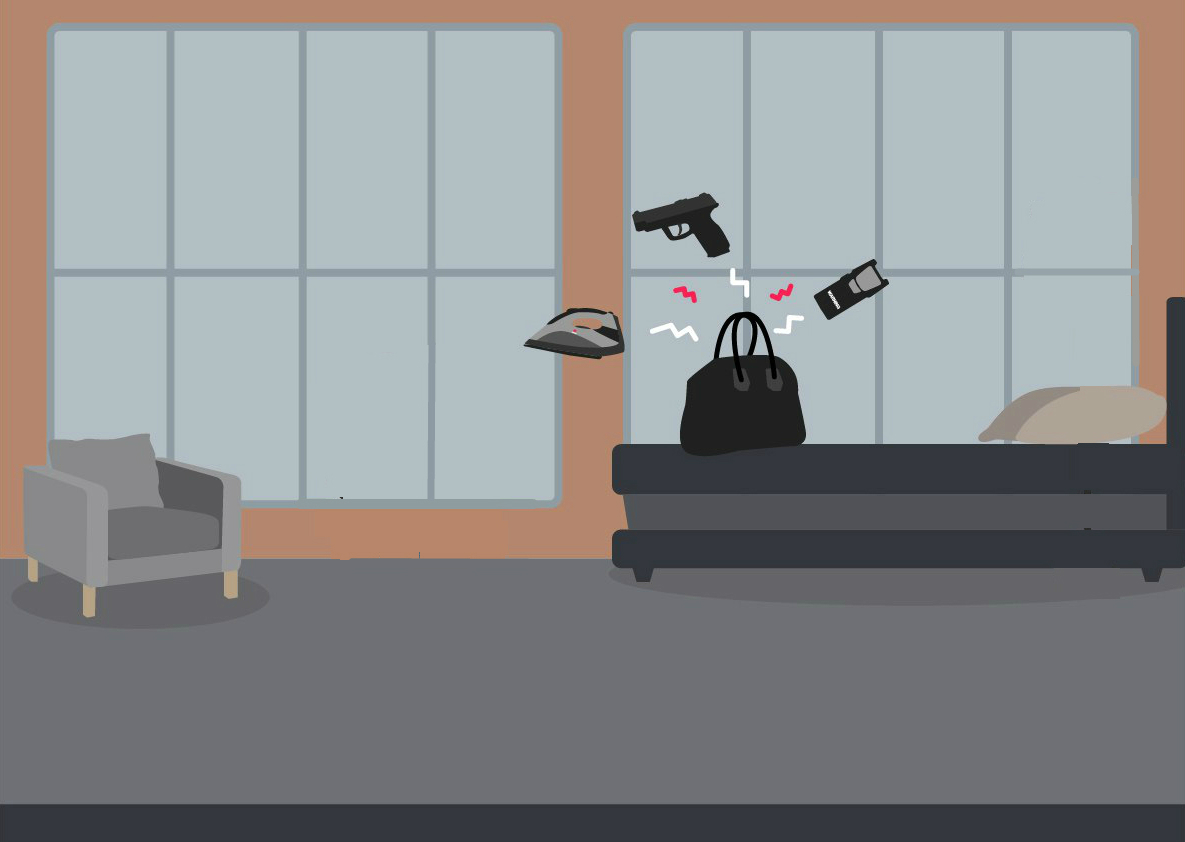
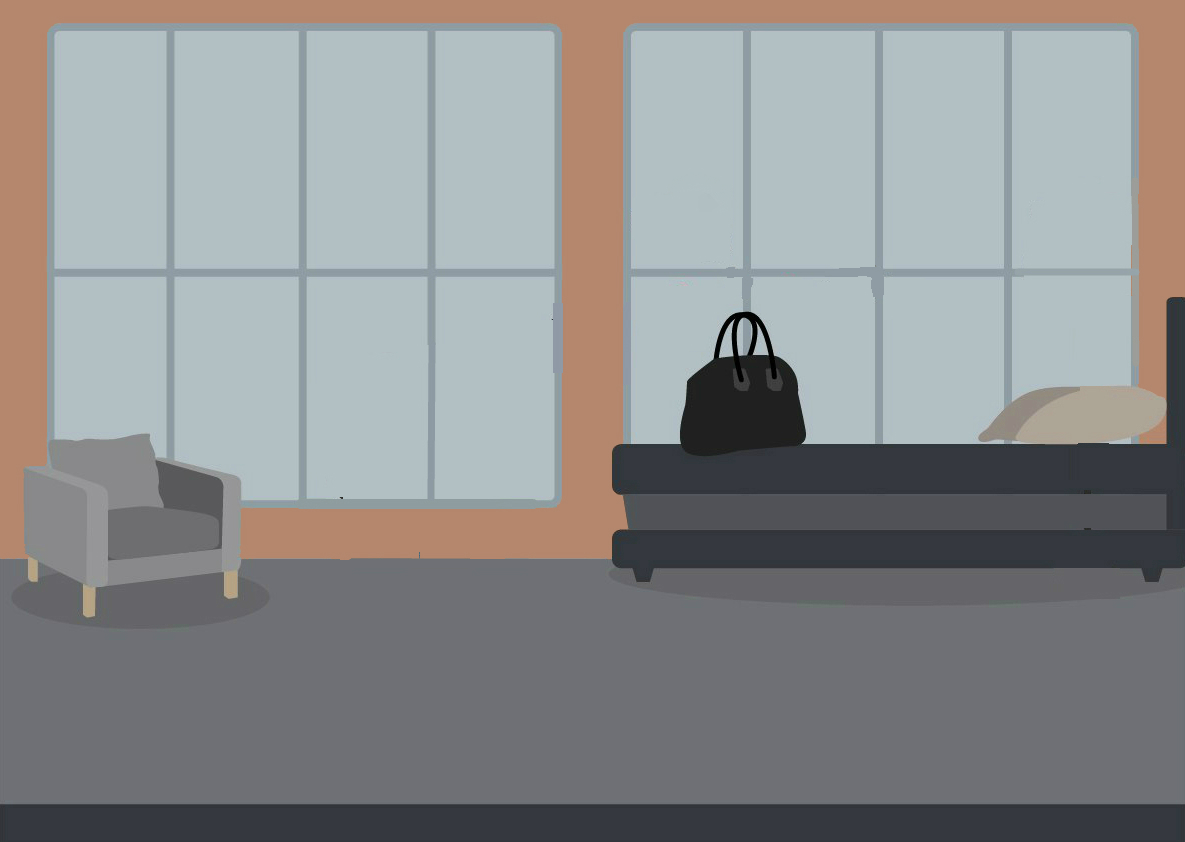
iron, gun, taser, animated

diff --git a/index.html b/index.html
@@ -474,6 +474,19 @@
 
               </div><!--End of lamp-->
 
+              <img id="small-iron" src="img/small-iron.png"
+                    data-490p="right:35%; top:45%; opacity:0"
+                    data-520p="right:50%; top:25%; opacity:1;"
+              >
+              <img id="small-gun" src="img/small-gun.png"
+                    data-490p="right:35%; top:45%; opacity:0"
+                    data-520p="right:35%; top:5%; opacity:1;"
+              >
+              <img id="small-taser" src="img/small-taser.png"
+                     data-490p="right:35%; top:45%; opacity:0"
+                    data-520p="right:25%; top:20%; opacity:1;"
+              >
+
             </div><!--End of loft-bg-->
 
             </div><!--End of slide 6-->
@@ -503,6 +516,8 @@
     data-800p="left:255%;margin-left:10%;"
     data-900p="left:300%;margin-left:10%;"
 >
+
+<div class="dialogue-box-shaw1"></div>
 
   <div class="shaw-hair">
     <div class="shaw-back-hair"></div>
@@ -629,8 +644,8 @@
         <div class="line3"></div>
 
   <div class="screen"
-   data-850p=""
-        data-890p=""
+   data-880p=" background-image: url(http://prashantsani.com/Misc/codepen/noise.jpg); animation: noiseAnim 0.5s infinite linear alternate;"
+        data-885p=" background-image: url(img/broken-screen.jpg); animation: noiseAnim 0s infinite linear alternate;"  
   ></div>
 
   <div class="tv-leftleg"></div>

diff --git a/stylesheet.css b/stylesheet.css
@@ -2111,6 +2111,30 @@ padding:5% 0 5% 3%;
   background-size: 100%;
   z-index: 1111;
 }
+
+#small-iron {
+      position: absolute;
+      top:5%;
+      right:20%;
+      width:10%;
+}
+
+#small-gun {
+      position: absolute;
+      top:5%;
+      right:20%;
+      width:10%;
+      transform: rotate(-15deg);
+}
+
+#small-taser {
+      position: absolute;
+      top:5%;
+      right:20%;
+      width:4%;
+      transform: rotate(60deg);
+}
+
 /*********End of Slide 6 **********/
 
 /*********Start of Slide 7 ***********/
@@ -2127,6 +2151,21 @@ padding:5% 0 5% 3%;
 .shaw-arrow img {
   width:55%;
   height:55%;
+}
+
+.dialogue-box-shaw1 {
+  /*display: none;*/
+position:absolute;
+bottom:45%;
+left:-16em;
+width:200px;
+height:100px;
+border:2px solid #000;
+border-radius: 25% 0 ;
+}
+
+.dialogue-box-shaw1 p {
+padding:5% 0 5% 3%;
 }
 
 
@@ -2663,9 +2702,8 @@ padding:5% 0 5% 3%;
   border: 2px solid #000;
   border-radius:15%;
   margin: 6%;
-  background-color:#e63939;
   background-image: url(http://prashantsani.com/Misc/codepen/noise.jpg);
-animation: noiseAnim 0.5s infinite linear alternate;
+  animation: noiseAnim 0.5s infinite linear alternate;
 }
 
 .screen p {
